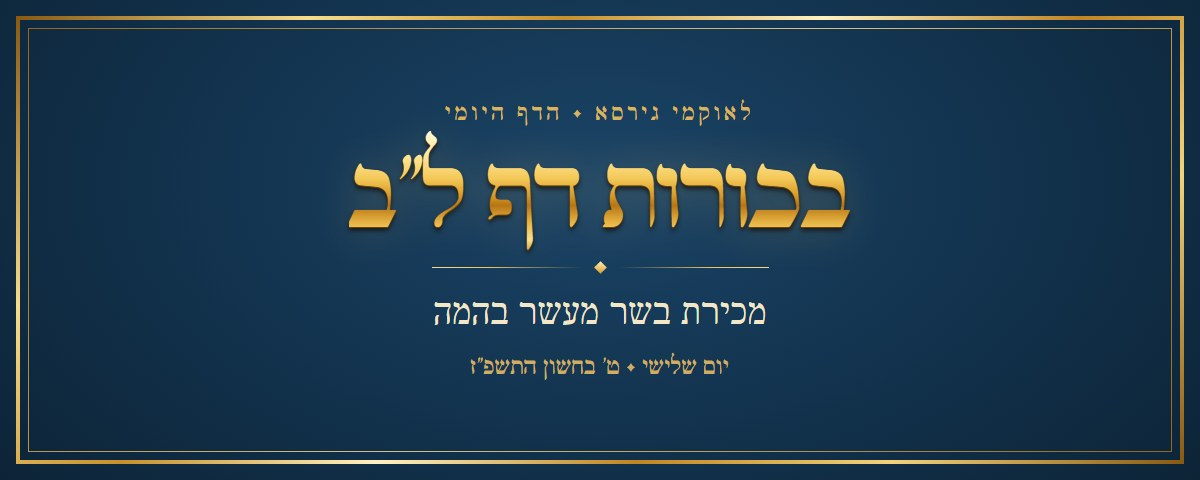
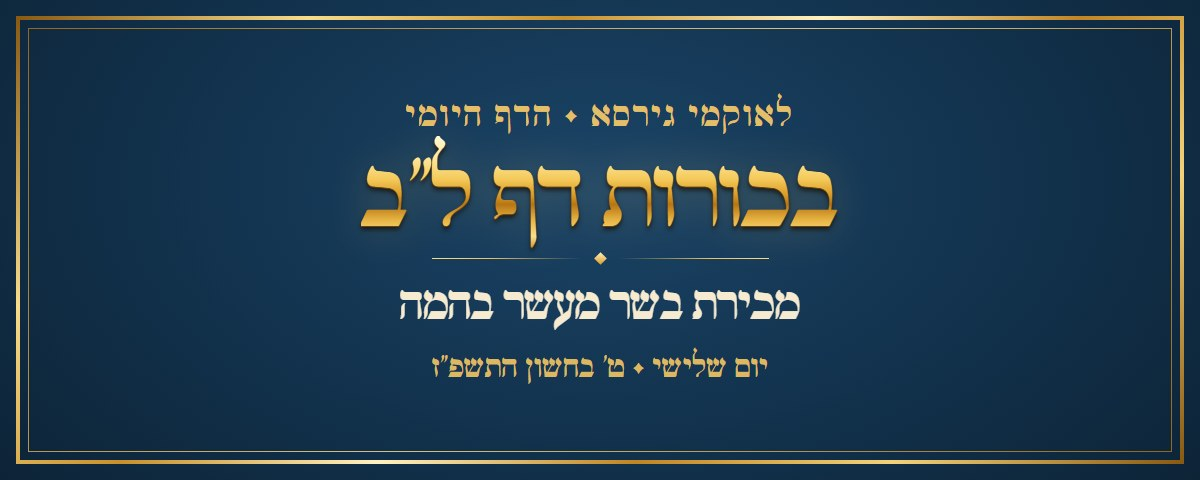
כרטיס הדף היומי: שורת המותג, הכותרת והתאריך גדולים יותר ובגופן BA Vilna - שייקראו גם בתצוגה המוקטנת במחשב (בעל הפרויקט)

diff --git a/tools/daf_wa/card.html b/tools/daf_wa/card.html
@@ -4,6 +4,7 @@
 /* כרטיס התצוגה המקדימה של הדף (פרומפט 23): 1200x480, כחול קטיפה ומסגרת זהב כפולה.
    כל התוכן בתוך המרכז (917 פיקסלים), כדי שגם חיתוך ליחס 1.91 (פייסבוק ודומיו) לא יקצץ אותו.
    8.11.2026 ערב (בעל הפרויקט): בלי ה-ל' - מיותר; גופן וילנא של בית אלף (BA Vilna) שלו; זהב שנראה זהב;
+   (ובהמשך הערב: שורת המותג, הכותרת והתאריך גדולים יותר ובוילנא - שייקראו גם כשווטסאפ במחשב מקטין את הכרטיס לרבע.)
    היום והתאריך בתוך התמונה, כדי שלא יתפסו שורות בהודעה; והשורה שמתחת לשם הדף - כותרת שמגדירה את הדף, לא עניין צדדי. */
 @font-face{font-family:'BAV';src:url(@@BA_B@@);font-weight:700}
 @font-face{font-family:'BAV';src:url(@@BA_R@@);font-weight:400}
@@ -16,15 +17,15 @@ body{background:radial-gradient(85% 130% at 50% 38%,#1b4467 0%,#11304a 45%,#0a1a
 .gold{background:linear-gradient(180deg,#fff8d6 0%,#ffe9a0 18%,#f4c95a 38%,#d99a26 52%,#b77514 60%,#e8b545 74%,#fbe08c 88%,#c98a1e 100%);
       -webkit-background-clip:text;background-clip:text;color:transparent;
       filter:drop-shadow(0 1px 0 #6b4308) drop-shadow(0 3px 2px rgba(20,10,0,.65)) drop-shadow(0 0 22px rgba(255,205,100,.22))}
-.txt{position:absolute;right:150px;left:150px;top:0;bottom:0;display:flex;flex-direction:column;align-items:center;justify-content:center;text-align:center}
-.brand{font-family:'BAV',serif;font-weight:400;font-size:26px;letter-spacing:.18em;color:#d9b45e}
-.daf{font-family:'BAV',serif;font-weight:700;font-size:118px;line-height:1.05;margin:4px 0 2px;white-space:nowrap}
-.rule{display:flex;align-items:center;gap:14px;margin:6px 0 14px}
+.txt{position:absolute;right:120px;left:120px;top:0;bottom:0;display:flex;flex-direction:column;align-items:center;justify-content:center;text-align:center}
+.brand{font-family:'BAV',serif;font-weight:700;font-size:40px;letter-spacing:.08em;color:#e2bf68}
+.daf{font-family:'BAV',serif;font-weight:700;font-size:112px;line-height:1.02;margin:0 0 0;white-space:nowrap}
+.rule{display:flex;align-items:center;gap:14px;margin:4px 0 10px}
 .rule i{display:block;width:150px;height:1.5px;background:linear-gradient(90deg,transparent,#e6c063 60%,#f7dc8a)}
 .rule i:last-child{background:linear-gradient(270deg,transparent,#e6c063 60%,#f7dc8a)}
 .rule b{display:block;width:9px;height:9px;transform:rotate(45deg);background:linear-gradient(135deg,#fff1bf,#d99a26)}
-.line{font-family:'Frank',serif;font-size:40px;line-height:1.25;color:#f3e7c8;max-width:840px;white-space:nowrap}
-.date{font-family:'BAV',serif;font-weight:400;font-size:27px;color:#cfae63;margin-top:16px;letter-spacing:.04em}
+.line{font-family:'BAV',serif;font-weight:700;font-size:54px;line-height:1.15;color:#f6ead0;max-width:880px;white-space:nowrap}
+.date{font-family:'BAV',serif;font-weight:700;font-size:36px;color:#dcb862;margin-top:12px;letter-spacing:.02em}
 </style></head><body>
 <div class="f1"></div><div class="f2"></div>
 <div class="txt">
@@ -51,7 +52,7 @@ body{background:radial-gradient(85% 130% at 50% 38%,#1b4467 0%,#11304a 45%,#0a1a
 /* שם מסכת ארוך או כותרת ארוכה: מקטינים עד שנכנסים בשורה אחת */
 window.fit=function(){
   var w=document.querySelector('.txt').clientWidth;
-  [['.daf',118,64],['.line',40,26]].forEach(function(a){var d=document.querySelector(a[0]),f=a[1];d.style.fontSize=f+'px';while(d.scrollWidth>w&&f>a[2]){f-=2;d.style.fontSize=f+'px'}});
+  [['.daf',112,64],['.line',54,34]].forEach(function(a){var d=document.querySelector(a[0]),f=a[1];d.style.fontSize=f+'px';while(d.scrollWidth>w&&f>a[2]){f-=2;d.style.fontSize=f+'px'}});
 };fit();
 </script>
 </body></html>
